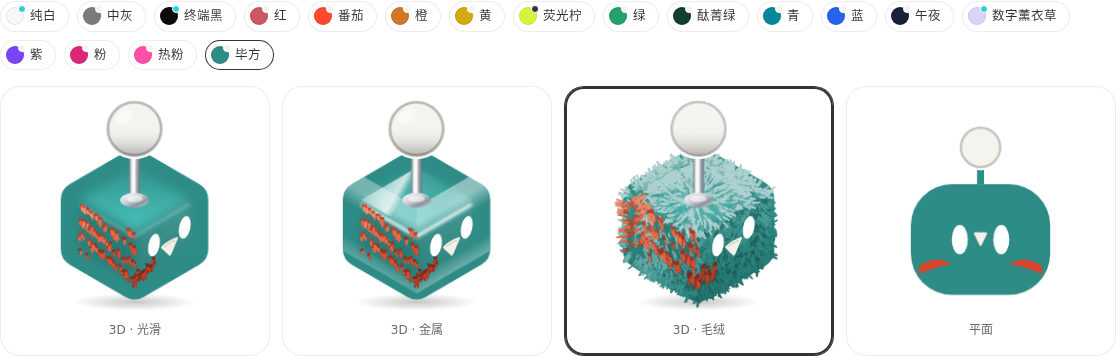
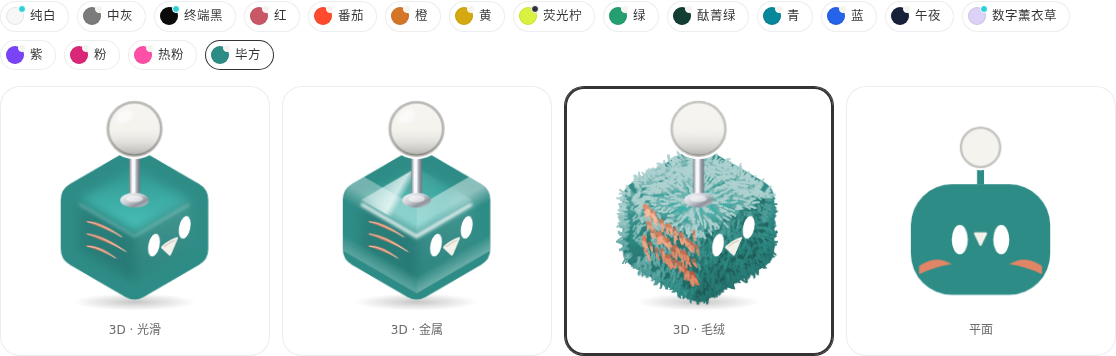
fix(mascot): softer coral feather marks for Bifang
赤文改用偏暖的朱砂珊瑚色；毛绒版红毛集中成整齐的羽纹带，光滑 / 金属版改为三片弯羽纹，不再是零散红点

diff --git a/BitFun/mascot-states/bitfun-mascot.html b/BitFun/mascot-states/bitfun-mascot.html
@@ -581,7 +581,7 @@ fieldset+fieldset{margin-top:var(--openbitfun-space-3)}
   function down(x, redOnly = false) {
     const { P, u } = x, r = rng(7), black = relLum(P.side) < .05;
     // 毕方特别版：“赤文”长在毛上——落在羽纹带里的毛簇用红色
-    const RED = ['#7a2418', '#9c3020', '#bc4028', '#d45236', '#e46e50', '#f08e70'], redRoots = RED.map(() => ''), redTips = RED.map(() => '');
+    const RED = ['#b9583f', '#c96a4e', '#d87d5e', '#e59270', '#efa887', '#f6bea2'] /* 赤文用偏暖的朱砂珊瑚色，避免像血 */, redRoots = RED.map(() => ''), redTips = RED.map(() => '');
     const redBin = v => Math.max(0, Math.min(RED.length - 1, Math.round(v * (RED.length - 1))));
     const hi = black ? '#55555e' : tint(P.side, .62), lo = black ? '#000000' : shadeHex(P.side, .34);
     const mixc = (a, b, t) => '#' + [1, 3, 5].map(i => Math.round(parseInt(a.substr(i, 2), 16) * (1 - t) + parseInt(b.substr(i, 2), 16) * t).toString(16).padStart(2, '0')).join('');
@@ -615,8 +615,8 @@ fieldset+fieldset{margin-top:var(--openbitfun-space-3)}
     // 羽纹带：左侧面三道斜向带，带的边缘按概率渐变，红毛和青毛自然交错
     const band = (fi, su, sv) => {
       if (!P.bifang) return false;
-      if (fi === 1) { const ph = ((sv * 3.2 - su * .9) % 1 + 1) % 1, d = Math.abs(ph - .17) / .17; return r() < Math.max(0, Math.min(1, (1.25 - d) * 1.6)); }
-      if (fi === 2) return sv > .7 &amp;&amp; su < .36 &amp;&amp; r() < (sv - .7) * 4;
+      if (fi === 1) { const ph = ((sv * 3.2 - su * .9) % 1 + 1) % 1, d = Math.abs(ph - .2) / .2; return d < .8 || (d < 1.1 &amp;&amp; r() < (1.1 - d) / .35); }
+      if (fi === 2) return false;
       return false;
     };
     for (const [fi, f] of faces.entries()) for (let i = 0, m = Math.round(f.n * x.lod * (redOnly ? 1.4 : 1)); i < m; i++) {
@@ -631,12 +631,12 @@ fieldset+fieldset{margin-top:var(--openbitfun-space-3)}
       // 圆角过渡带
       for (let i = 0, m = Math.round(seg * 2.4 * x.lod); i < m; i++) {
         const p = lerp(a, b, r()), off = r() * 6, sx = p[0] + nx * off, sy = p[1] + ny * off;
-        clump(sx, sy, Math.atan2(ny, nx) * .5 + Math.PI / 4 + (r() - .5) * .8, 3.6 + r() * 3, .45 + r() * .4, light(sx, sy, base), 5, P.bifang &amp;&amp; k === 4 &amp;&amp; r() < .35);
+        clump(sx, sy, Math.atan2(ny, nx) * .5 + Math.PI / 4 + (r() - .5) * .8, 3.6 + r() * 3, .45 + r() * .4, light(sx, sy, base), 5);
       }
       // 外缘向外支出的毛簇
       for (let i = 0, m = Math.round(seg * 2.6 * x.lod); i < m; i++) {
         const p = lerp(a, b, r()), off = 4 + r() * 3, sx = p[0] + nx * off, sy = p[1] + ny * off;
-        clump(sx, sy, Math.atan2(ny, nx) + (r() - .5) * 1, 2.6 + r() * 3.4, .4 + r() * .4, light(sx, sy, base - .04), 4, P.bifang &amp;&amp; k === 4 &amp;&amp; r() < .35);
+        clump(sx, sy, Math.atan2(ny, nx) + (r() - .5) * 1, 2.6 + r() * 3.4, .4 + r() * .4, light(sx, sy, base - .04), 4);
       }
       const vx = b[0] - cx, vy = b[1] - cy, vl = Math.hypot(vx, vy);
       for (let i = 0; i < 9; i++) {
@@ -654,9 +654,14 @@ fieldset+fieldset{margin-top:var(--openbitfun-space-3)}
   // 毕方特别版：《山海经》“其状如鹤，一足，赤文青质而白喙”——青色身体上几道红色羽纹，眼睛下方一只白喙；方块上的天线就是那“一足”
   function bifangMarks(x) {
     const beak = '#F4F1EA';
-    if (x.flat) return `<g fill=&quot;#D8452E&quot;><path d=&quot;M30 86 q8 -6 16 -1 q-8 1 -16 5z&quot;/><path d=&quot;M90 86 q-8 -6 -16 -1 q8 1 16 5z&quot;/></g>
+    if (x.flat) return `<g fill=&quot;#E08566&quot;><path d=&quot;M30 86 q8 -6 16 -1 q-8 1 -16 5z&quot;/><path d=&quot;M90 86 q-8 -6 -16 -1 q8 1 16 5z&quot;/></g>
       <path d=&quot;M57.4 ${x.tiny ? 72 : 70} L62.6 ${x.tiny ? 72 : 70} L60 ${x.tiny ? 77 : 75.5}Z&quot; fill=&quot;${beak}&quot; stroke=&quot;${beak}&quot; stroke-width=&quot;1.2&quot; stroke-linejoin=&quot;round&quot;/>`;
-    const fur = x.plush ? '' : down(x, true);
+    let fur = '';
+    if (!x.plush) {
+      const feather = (y, len, o) => `<path d=&quot;M2.5 ${y + 3} Q${len * .45} ${y - 2.2} ${len} ${y} Q${len * .5} ${y + .9} 2.5 ${y + 3}Z&quot; fill=&quot;url(#bfg${x.u})&quot; opacity=&quot;${o}&quot;/><path d=&quot;M4 ${y + 2.4} Q${len * .5} ${y - .9} ${len - 1.5} ${y + .2}&quot; stroke=&quot;#f8d2bd&quot; stroke-width=&quot;.5&quot; fill=&quot;none&quot; stroke-linecap=&quot;round&quot; opacity=&quot;.8&quot;/>`;
+      fur = `<defs><linearGradient id=&quot;bfg${x.u}&quot; x1=&quot;0&quot; y1=&quot;0&quot; x2=&quot;1&quot; y2=&quot;0&quot;><stop offset=&quot;0&quot; stop-color=&quot;#c96a4e&quot;/><stop offset=&quot;1&quot; stop-color=&quot;#eda283&quot;/></linearGradient></defs>
+        <g transform=&quot;matrix(1 .577 0 1 33 53.6)&quot;>${feather(6, 22, 1)}${feather(12, 24, .95)}${feather(18, 19, .9)}</g>`;
+    }
     return `${fur}<g transform=&quot;${FACE}&quot;><path d=&quot;M13.6 15.2 Q17 14.2 20.6 15.2 L17.4 21Z&quot; fill=&quot;${beak}&quot; stroke=&quot;${beak}&quot; stroke-width=&quot;1.2&quot; stroke-linejoin=&quot;round&quot;/><path d=&quot;M14.4 15.6 Q17 15 19.8 15.6&quot; stroke=&quot;#cfc6b4&quot; stroke-width=&quot;.55&quot; fill=&quot;none&quot;/></g>`;
   }
 
@@ -1475,7 +1480,7 @@ a{color:var(--openbitfun-color-link-default)}
   function down(x, redOnly = false) {
     const { P, u } = x, r = rng(7), black = relLum(P.side) < .05;
     // 毕方特别版：“赤文”长在毛上——落在羽纹带里的毛簇用红色
-    const RED = ['#7a2418', '#9c3020', '#bc4028', '#d45236', '#e46e50', '#f08e70'], redRoots = RED.map(() => ''), redTips = RED.map(() => '');
+    const RED = ['#b9583f', '#c96a4e', '#d87d5e', '#e59270', '#efa887', '#f6bea2'] /* 赤文用偏暖的朱砂珊瑚色，避免像血 */, redRoots = RED.map(() => ''), redTips = RED.map(() => '');
     const redBin = v => Math.max(0, Math.min(RED.length - 1, Math.round(v * (RED.length - 1))));
     const hi = black ? '#55555e' : tint(P.side, .62), lo = black ? '#000000' : shadeHex(P.side, .34);
     const mixc = (a, b, t) => '#' + [1, 3, 5].map(i => Math.round(parseInt(a.substr(i, 2), 16) * (1 - t) + parseInt(b.substr(i, 2), 16) * t).toString(16).padStart(2, '0')).join('');
@@ -1509,8 +1514,8 @@ a{color:var(--openbitfun-color-link-default)}
     // 羽纹带：左侧面三道斜向带，带的边缘按概率渐变，红毛和青毛自然交错
     const band = (fi, su, sv) => {
       if (!P.bifang) return false;
-      if (fi === 1) { const ph = ((sv * 3.2 - su * .9) % 1 + 1) % 1, d = Math.abs(ph - .17) / .17; return r() < Math.max(0, Math.min(1, (1.25 - d) * 1.6)); }
-      if (fi === 2) return sv > .7 &amp;&amp; su < .36 &amp;&amp; r() < (sv - .7) * 4;
+      if (fi === 1) { const ph = ((sv * 3.2 - su * .9) % 1 + 1) % 1, d = Math.abs(ph - .2) / .2; return d < .8 || (d < 1.1 &amp;&amp; r() < (1.1 - d) / .35); }
+      if (fi === 2) return false;
       return false;
     };
     for (const [fi, f] of faces.entries()) for (let i = 0, m = Math.round(f.n * x.lod * (redOnly ? 1.4 : 1)); i < m; i++) {
@@ -1525,12 +1530,12 @@ a{color:var(--openbitfun-color-link-default)}
       // 圆角过渡带
       for (let i = 0, m = Math.round(seg * 2.4 * x.lod); i < m; i++) {
         const p = lerp(a, b, r()), off = r() * 6, sx = p[0] + nx * off, sy = p[1] + ny * off;
-        clump(sx, sy, Math.atan2(ny, nx) * .5 + Math.PI / 4 + (r() - .5) * .8, 3.6 + r() * 3, .45 + r() * .4, light(sx, sy, base), 5, P.bifang &amp;&amp; k === 4 &amp;&amp; r() < .35);
+        clump(sx, sy, Math.atan2(ny, nx) * .5 + Math.PI / 4 + (r() - .5) * .8, 3.6 + r() * 3, .45 + r() * .4, light(sx, sy, base), 5);
       }
       // 外缘向外支出的毛簇
       for (let i = 0, m = Math.round(seg * 2.6 * x.lod); i < m; i++) {
         const p = lerp(a, b, r()), off = 4 + r() * 3, sx = p[0] + nx * off, sy = p[1] + ny * off;
-        clump(sx, sy, Math.atan2(ny, nx) + (r() - .5) * 1, 2.6 + r() * 3.4, .4 + r() * .4, light(sx, sy, base - .04), 4, P.bifang &amp;&amp; k === 4 &amp;&amp; r() < .35);
+        clump(sx, sy, Math.atan2(ny, nx) + (r() - .5) * 1, 2.6 + r() * 3.4, .4 + r() * .4, light(sx, sy, base - .04), 4);
       }
       const vx = b[0] - cx, vy = b[1] - cy, vl = Math.hypot(vx, vy);
       for (let i = 0; i < 9; i++) {
@@ -1548,9 +1553,14 @@ a{color:var(--openbitfun-color-link-default)}
   // 毕方特别版：《山海经》“其状如鹤，一足，赤文青质而白喙”——青色身体上几道红色羽纹，眼睛下方一只白喙；方块上的天线就是那“一足”
   function bifangMarks(x) {
     const beak = '#F4F1EA';
-    if (x.flat) return `<g fill=&quot;#D8452E&quot;><path d=&quot;M30 86 q8 -6 16 -1 q-8 1 -16 5z&quot;/><path d=&quot;M90 86 q-8 -6 -16 -1 q8 1 16 5z&quot;/></g>
+    if (x.flat) return `<g fill=&quot;#E08566&quot;><path d=&quot;M30 86 q8 -6 16 -1 q-8 1 -16 5z&quot;/><path d=&quot;M90 86 q-8 -6 -16 -1 q8 1 16 5z&quot;/></g>
       <path d=&quot;M57.4 ${x.tiny ? 72 : 70} L62.6 ${x.tiny ? 72 : 70} L60 ${x.tiny ? 77 : 75.5}Z&quot; fill=&quot;${beak}&quot; stroke=&quot;${beak}&quot; stroke-width=&quot;1.2&quot; stroke-linejoin=&quot;round&quot;/>`;
-    const fur = x.plush ? '' : down(x, true);
+    let fur = '';
+    if (!x.plush) {
+      const feather = (y, len, o) => `<path d=&quot;M2.5 ${y + 3} Q${len * .45} ${y - 2.2} ${len} ${y} Q${len * .5} ${y + .9} 2.5 ${y + 3}Z&quot; fill=&quot;url(#bfg${x.u})&quot; opacity=&quot;${o}&quot;/><path d=&quot;M4 ${y + 2.4} Q${len * .5} ${y - .9} ${len - 1.5} ${y + .2}&quot; stroke=&quot;#f8d2bd&quot; stroke-width=&quot;.5&quot; fill=&quot;none&quot; stroke-linecap=&quot;round&quot; opacity=&quot;.8&quot;/>`;
+      fur = `<defs><linearGradient id=&quot;bfg${x.u}&quot; x1=&quot;0&quot; y1=&quot;0&quot; x2=&quot;1&quot; y2=&quot;0&quot;><stop offset=&quot;0&quot; stop-color=&quot;#c96a4e&quot;/><stop offset=&quot;1&quot; stop-color=&quot;#eda283&quot;/></linearGradient></defs>
+        <g transform=&quot;matrix(1 .577 0 1 33 53.6)&quot;>${feather(6, 22, 1)}${feather(12, 24, .95)}${feather(18, 19, .9)}</g>`;
+    }
     return `${fur}<g transform=&quot;${FACE}&quot;><path d=&quot;M13.6 15.2 Q17 14.2 20.6 15.2 L17.4 21Z&quot; fill=&quot;${beak}&quot; stroke=&quot;${beak}&quot; stroke-width=&quot;1.2&quot; stroke-linejoin=&quot;round&quot;/><path d=&quot;M14.4 15.6 Q17 15 19.8 15.6&quot; stroke=&quot;#cfc6b4&quot; stroke-width=&quot;.55&quot; fill=&quot;none&quot;/></g>`;
   }
 
@@ -2527,7 +2537,7 @@ button.sel{border-color:var(--ink)}
   function down(x, redOnly = false) {
     const { P, u } = x, r = rng(7), black = relLum(P.side) < .05;
     // 毕方特别版：“赤文”长在毛上——落在羽纹带里的毛簇用红色
-    const RED = ['#7a2418', '#9c3020', '#bc4028', '#d45236', '#e46e50', '#f08e70'], redRoots = RED.map(() => ''), redTips = RED.map(() => '');
+    const RED = ['#b9583f', '#c96a4e', '#d87d5e', '#e59270', '#efa887', '#f6bea2'] /* 赤文用偏暖的朱砂珊瑚色，避免像血 */, redRoots = RED.map(() => ''), redTips = RED.map(() => '');
     const redBin = v => Math.max(0, Math.min(RED.length - 1, Math.round(v * (RED.length - 1))));
     const hi = black ? '#55555e' : tint(P.side, .62), lo = black ? '#000000' : shadeHex(P.side, .34);
     const mixc = (a, b, t) => '#' + [1, 3, 5].map(i => Math.round(parseInt(a.substr(i, 2), 16) * (1 - t) + parseInt(b.substr(i, 2), 16) * t).toString(16).padStart(2, '0')).join('');
@@ -2561,8 +2571,8 @@ button.sel{border-color:var(--ink)}
     // 羽纹带：左侧面三道斜向带，带的边缘按概率渐变，红毛和青毛自然交错
     const band = (fi, su, sv) => {
       if (!P.bifang) return false;
-      if (fi === 1) { const ph = ((sv * 3.2 - su * .9) % 1 + 1) % 1, d = Math.abs(ph - .17) / .17; return r() < Math.max(0, Math.min(1, (1.25 - d) * 1.6)); }
-      if (fi === 2) return sv > .7 &amp;&amp; su < .36 &amp;&amp; r() < (sv - .7) * 4;
+      if (fi === 1) { const ph = ((sv * 3.2 - su * .9) % 1 + 1) % 1, d = Math.abs(ph - .2) / .2; return d < .8 || (d < 1.1 &amp;&amp; r() < (1.1 - d) / .35); }
+      if (fi === 2) return false;
       return false;
     };
     for (const [fi, f] of faces.entries()) for (let i = 0, m = Math.round(f.n * x.lod * (redOnly ? 1.4 : 1)); i < m; i++) {
@@ -2577,12 +2587,12 @@ button.sel{border-color:var(--ink)}
       // 圆角过渡带
       for (let i = 0, m = Math.round(seg * 2.4 * x.lod); i < m; i++) {
         const p = lerp(a, b, r()), off = r() * 6, sx = p[0] + nx * off, sy = p[1] + ny * off;
-        clump(sx, sy, Math.atan2(ny, nx) * .5 + Math.PI / 4 + (r() - .5) * .8, 3.6 + r() * 3, .45 + r() * .4, light(sx, sy, base), 5, P.bifang &amp;&amp; k === 4 &amp;&amp; r() < .35);
+        clump(sx, sy, Math.atan2(ny, nx) * .5 + Math.PI / 4 + (r() - .5) * .8, 3.6 + r() * 3, .45 + r() * .4, light(sx, sy, base), 5);
       }
       // 外缘向外支出的毛簇
       for (let i = 0, m = Math.round(seg * 2.6 * x.lod); i < m; i++) {
         const p = lerp(a, b, r()), off = 4 + r() * 3, sx = p[0] + nx * off, sy = p[1] + ny * off;
-        clump(sx, sy, Math.atan2(ny, nx) + (r() - .5) * 1, 2.6 + r() * 3.4, .4 + r() * .4, light(sx, sy, base - .04), 4, P.bifang &amp;&amp; k === 4 &amp;&amp; r() < .35);
+        clump(sx, sy, Math.atan2(ny, nx) + (r() - .5) * 1, 2.6 + r() * 3.4, .4 + r() * .4, light(sx, sy, base - .04), 4);
       }
       const vx = b[0] - cx, vy = b[1] - cy, vl = Math.hypot(vx, vy);
       for (let i = 0; i < 9; i++) {
@@ -2600,9 +2610,14 @@ button.sel{border-color:var(--ink)}
   // 毕方特别版：《山海经》“其状如鹤，一足，赤文青质而白喙”——青色身体上几道红色羽纹，眼睛下方一只白喙；方块上的天线就是那“一足”
   function bifangMarks(x) {
     const beak = '#F4F1EA';
-    if (x.flat) return `<g fill=&quot;#D8452E&quot;><path d=&quot;M30 86 q8 -6 16 -1 q-8 1 -16 5z&quot;/><path d=&quot;M90 86 q-8 -6 -16 -1 q8 1 16 5z&quot;/></g>
+    if (x.flat) return `<g fill=&quot;#E08566&quot;><path d=&quot;M30 86 q8 -6 16 -1 q-8 1 -16 5z&quot;/><path d=&quot;M90 86 q-8 -6 -16 -1 q8 1 16 5z&quot;/></g>
       <path d=&quot;M57.4 ${x.tiny ? 72 : 70} L62.6 ${x.tiny ? 72 : 70} L60 ${x.tiny ? 77 : 75.5}Z&quot; fill=&quot;${beak}&quot; stroke=&quot;${beak}&quot; stroke-width=&quot;1.2&quot; stroke-linejoin=&quot;round&quot;/>`;
-    const fur = x.plush ? '' : down(x, true);
+    let fur = '';
+    if (!x.plush) {
+      const feather = (y, len, o) => `<path d=&quot;M2.5 ${y + 3} Q${len * .45} ${y - 2.2} ${len} ${y} Q${len * .5} ${y + .9} 2.5 ${y + 3}Z&quot; fill=&quot;url(#bfg${x.u})&quot; opacity=&quot;${o}&quot;/><path d=&quot;M4 ${y + 2.4} Q${len * .5} ${y - .9} ${len - 1.5} ${y + .2}&quot; stroke=&quot;#f8d2bd&quot; stroke-width=&quot;.5&quot; fill=&quot;none&quot; stroke-linecap=&quot;round&quot; opacity=&quot;.8&quot;/>`;
+      fur = `<defs><linearGradient id=&quot;bfg${x.u}&quot; x1=&quot;0&quot; y1=&quot;0&quot; x2=&quot;1&quot; y2=&quot;0&quot;><stop offset=&quot;0&quot; stop-color=&quot;#c96a4e&quot;/><stop offset=&quot;1&quot; stop-color=&quot;#eda283&quot;/></linearGradient></defs>
+        <g transform=&quot;matrix(1 .577 0 1 33 53.6)&quot;>${feather(6, 22, 1)}${feather(12, 24, .95)}${feather(18, 19, .9)}</g>`;
+    }
     return `${fur}<g transform=&quot;${FACE}&quot;><path d=&quot;M13.6 15.2 Q17 14.2 20.6 15.2 L17.4 21Z&quot; fill=&quot;${beak}&quot; stroke=&quot;${beak}&quot; stroke-width=&quot;1.2&quot; stroke-linejoin=&quot;round&quot;/><path d=&quot;M14.4 15.6 Q17 15 19.8 15.6&quot; stroke=&quot;#cfc6b4&quot; stroke-width=&quot;.55&quot; fill=&quot;none&quot;/></g>`;
   }
 

diff --git a/BitFun/mascot-states/src/core/bitfun-states.js b/BitFun/mascot-states/src/core/bitfun-states.js
@@ -219,7 +219,7 @@
   function down(x, redOnly = false) {
     const { P, u } = x, r = rng(7), black = relLum(P.side) < .05;
     // 毕方特别版：“赤文”长在毛上——落在羽纹带里的毛簇用红色
-    const RED = ['#7a2418', '#9c3020', '#bc4028', '#d45236', '#e46e50', '#f08e70'], redRoots = RED.map(() => ''), redTips = RED.map(() => '');
+    const RED = ['#b9583f', '#c96a4e', '#d87d5e', '#e59270', '#efa887', '#f6bea2'] /* 赤文用偏暖的朱砂珊瑚色，避免像血 */, redRoots = RED.map(() => ''), redTips = RED.map(() => '');
     const redBin = v => Math.max(0, Math.min(RED.length - 1, Math.round(v * (RED.length - 1))));
     const hi = black ? '#55555e' : tint(P.side, .62), lo = black ? '#000000' : shadeHex(P.side, .34);
     const mixc = (a, b, t) => '#' + [1, 3, 5].map(i => Math.round(parseInt(a.substr(i, 2), 16) * (1 - t) + parseInt(b.substr(i, 2), 16) * t).toString(16).padStart(2, '0')).join('');
@@ -253,8 +253,8 @@
     // 羽纹带：左侧面三道斜向带，带的边缘按概率渐变，红毛和青毛自然交错
     const band = (fi, su, sv) => {
       if (!P.bifang) return false;
-      if (fi === 1) { const ph = ((sv * 3.2 - su * .9) % 1 + 1) % 1, d = Math.abs(ph - .17) / .17; return r() < Math.max(0, Math.min(1, (1.25 - d) * 1.6)); }
-      if (fi === 2) return sv > .7 && su < .36 && r() < (sv - .7) * 4;
+      if (fi === 1) { const ph = ((sv * 3.2 - su * .9) % 1 + 1) % 1, d = Math.abs(ph - .2) / .2; return d < .8 || (d < 1.1 && r() < (1.1 - d) / .35); }
+      if (fi === 2) return false;
       return false;
     };
     for (const [fi, f] of faces.entries()) for (let i = 0, m = Math.round(f.n * x.lod * (redOnly ? 1.4 : 1)); i < m; i++) {
@@ -269,12 +269,12 @@
       // 圆角过渡带
       for (let i = 0, m = Math.round(seg * 2.4 * x.lod); i < m; i++) {
         const p = lerp(a, b, r()), off = r() * 6, sx = p[0] + nx * off, sy = p[1] + ny * off;
-        clump(sx, sy, Math.atan2(ny, nx) * .5 + Math.PI / 4 + (r() - .5) * .8, 3.6 + r() * 3, .45 + r() * .4, light(sx, sy, base), 5, P.bifang && k === 4 && r() < .35);
+        clump(sx, sy, Math.atan2(ny, nx) * .5 + Math.PI / 4 + (r() - .5) * .8, 3.6 + r() * 3, .45 + r() * .4, light(sx, sy, base), 5);
       }
       // 外缘向外支出的毛簇
       for (let i = 0, m = Math.round(seg * 2.6 * x.lod); i < m; i++) {
         const p = lerp(a, b, r()), off = 4 + r() * 3, sx = p[0] + nx * off, sy = p[1] + ny * off;
-        clump(sx, sy, Math.atan2(ny, nx) + (r() - .5) * 1, 2.6 + r() * 3.4, .4 + r() * .4, light(sx, sy, base - .04), 4, P.bifang && k === 4 && r() < .35);
+        clump(sx, sy, Math.atan2(ny, nx) + (r() - .5) * 1, 2.6 + r() * 3.4, .4 + r() * .4, light(sx, sy, base - .04), 4);
       }
       const vx = b[0] - cx, vy = b[1] - cy, vl = Math.hypot(vx, vy);
       for (let i = 0; i < 9; i++) {
@@ -292,9 +292,14 @@
   // 毕方特别版：《山海经》“其状如鹤，一足，赤文青质而白喙”——青色身体上几道红色羽纹，眼睛下方一只白喙；方块上的天线就是那“一足”
   function bifangMarks(x) {
     const beak = '#F4F1EA';
-    if (x.flat) return `<g fill="#D8452E"><path d="M30 86 q8 -6 16 -1 q-8 1 -16 5z"/><path d="M90 86 q-8 -6 -16 -1 q8 1 16 5z"/></g>
+    if (x.flat) return `<g fill="#E08566"><path d="M30 86 q8 -6 16 -1 q-8 1 -16 5z"/><path d="M90 86 q-8 -6 -16 -1 q8 1 16 5z"/></g>
       <path d="M57.4 ${x.tiny ? 72 : 70} L62.6 ${x.tiny ? 72 : 70} L60 ${x.tiny ? 77 : 75.5}Z" fill="${beak}" stroke="${beak}" stroke-width="1.2" stroke-linejoin="round"/>`;
-    const fur = x.plush ? '' : down(x, true);
+    let fur = '';
+    if (!x.plush) {
+      const feather = (y, len, o) => `<path d="M2.5 ${y + 3} Q${len * .45} ${y - 2.2} ${len} ${y} Q${len * .5} ${y + .9} 2.5 ${y + 3}Z" fill="url(#bfg${x.u})" opacity="${o}"/><path d="M4 ${y + 2.4} Q${len * .5} ${y - .9} ${len - 1.5} ${y + .2}" stroke="#f8d2bd" stroke-width=".5" fill="none" stroke-linecap="round" opacity=".8"/>`;
+      fur = `<defs><linearGradient id="bfg${x.u}" x1="0" y1="0" x2="1" y2="0"><stop offset="0" stop-color="#c96a4e"/><stop offset="1" stop-color="#eda283"/></linearGradient></defs>
+        <g transform="matrix(1 .577 0 1 33 53.6)">${feather(6, 22, 1)}${feather(12, 24, .95)}${feather(18, 19, .9)}</g>`;
+    }
     return `${fur}<g transform="${FACE}"><path d="M13.6 15.2 Q17 14.2 20.6 15.2 L17.4 21Z" fill="${beak}" stroke="${beak}" stroke-width="1.2" stroke-linejoin="round"/><path d="M14.4 15.6 Q17 15 19.8 15.6" stroke="#cfc6b4" stroke-width=".55" fill="none"/></g>`;
   }
 

diff --git a/BitFun/mascot-states/README.md b/BitFun/mascot-states/README.md
@@ -36,7 +36,7 @@ mascot-states/
 │       ├── svg/               完整版 SVG（含道具），按“视图-质感-配色”分目录
 │       ├── svg-compact/       去掉道具的中尺寸版
 │       ├── svg-icon/          32px 以下使用的平面图标版
-│       ├── bitfun-colors.css  内置 7 套配色（含毕方特别版）的 CSS 变量
+│       ├── bitfun-colors.css  统一色板 18 种身体色（含毕方特别版）的 CSS 变量
 │       └── bitfun-colors.json 同上，JSON 格式
 └── docs/
     └── eye-options-done-offline.png   “完成 / 离线”眼型的候选对比
@@ -50,7 +50,7 @@ mascot-states/
 npm run build        # 等同于 node src/build.js
 ```
 
-构建会更新 `bitfun-mascot.html`，并清空、重新生成 `dist/`（三个独立页面、756 个 SVG、色卡）。`dist/` 不随仓库提交，需要 SVG 时在本地构建一次即可。
+构建会更新 `bitfun-mascot.html`，并清空、重新生成 `dist/`（三个独立页面、2016 个 SVG、色卡）。`dist/` 不随仓库提交，需要 SVG 时在本地构建一次即可。
 
 ## 设计要点
 
@@ -58,7 +58,7 @@ npm run build        # 等同于 node src/build.js
 - **天线球 = 状态灯**：思考紫、执行蓝、需要你琥珀、完成绿、异常红、离线灰。球内不放任何图标，只靠颜色和动效区分状态。待命色必须避开这几个色相。
 - **眼睛**：按身体的感知亮度自动选择，OKLab L < 0.70 用白眼，否则用黑眼；内置的身体颜色在浅色、深色主题下眼睛对比度都不低于 3:1；用户自定义颜色时由“自己搭配”的检查项提示。眼型包括常态、放大、专注、眯眼、亮眼（完成）、眼缝（离线）、`> <`（异常）。
 - **浅色身体**：相对亮度 > 0.72 时自动加一圈同色系细轮廓，避免在浅底上消失。
-- **毕方特别版**：按《山海经》“其状如鹤，一足，赤文青质而白喙”取色——青色身体、红色羽纹长在毛上（左侧斜向三道）、眼下一只白喙；天线即“一足”。
+- **毕方特别版**：按《山海经》“其状如鹤，一足，赤文青质而白喙”取色——青色身体、赤文用偏暖的朱砂珊瑚色（不用正红，避免像血）：毛绒版是长在毛里的整齐羽纹带，光滑 / 金属版是左侧三片弯羽纹，平面版是两片翼纹；眼下一只白喙；天线即“一足”。
 - **统一色板**：全文件只用 `src/core/bitfun-states.js` 里的 `BOARD`（身体色 + 天线球色），三个章节同源。
 - **毛绒**：参考华为鸿蒙“憨憨”的长毛绒质感，绒毛成簇、根暗尖亮，按左上方来光取色，全部不透明；平时随身体轻轻起伏，鼠标划过时抖一下。
 - **尺寸分级**：≥ 64px 显示完整道具；32–63px 去掉道具；< 32px 自动切换为平面图标版。
